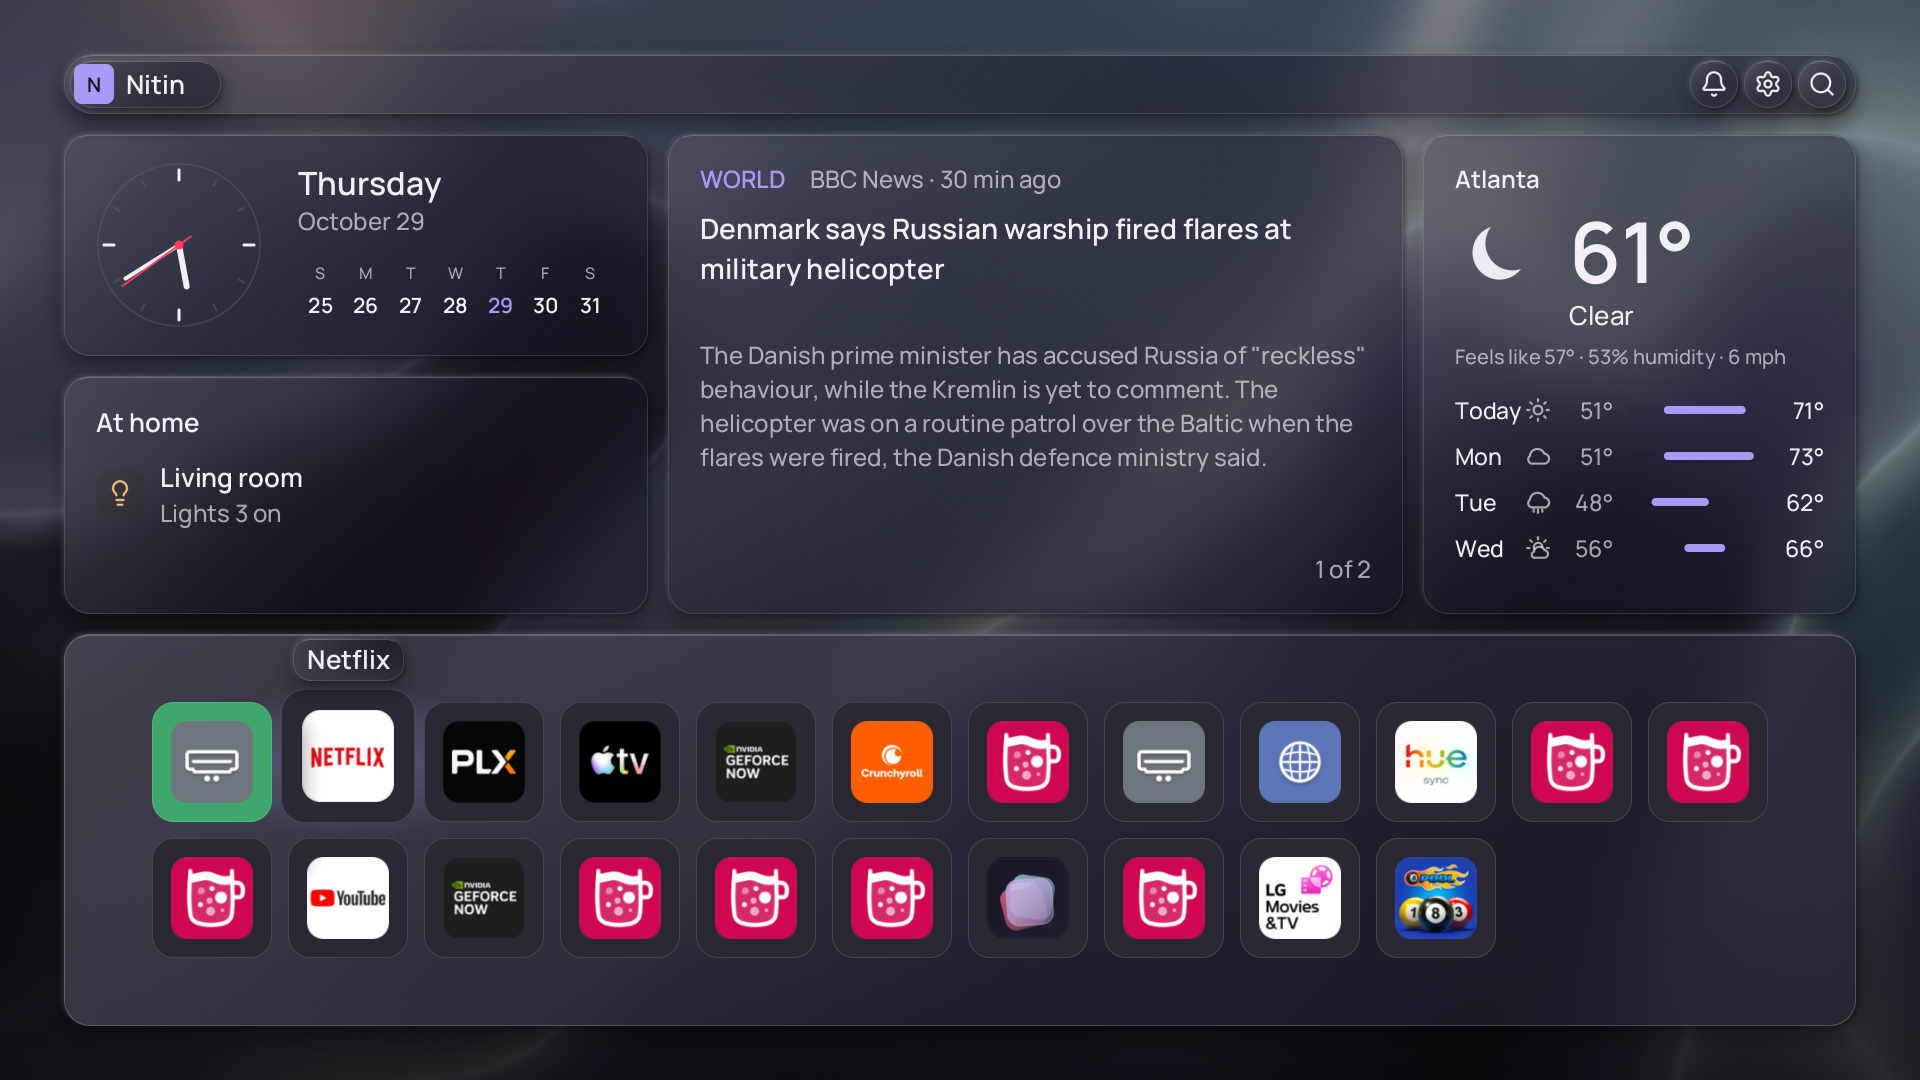
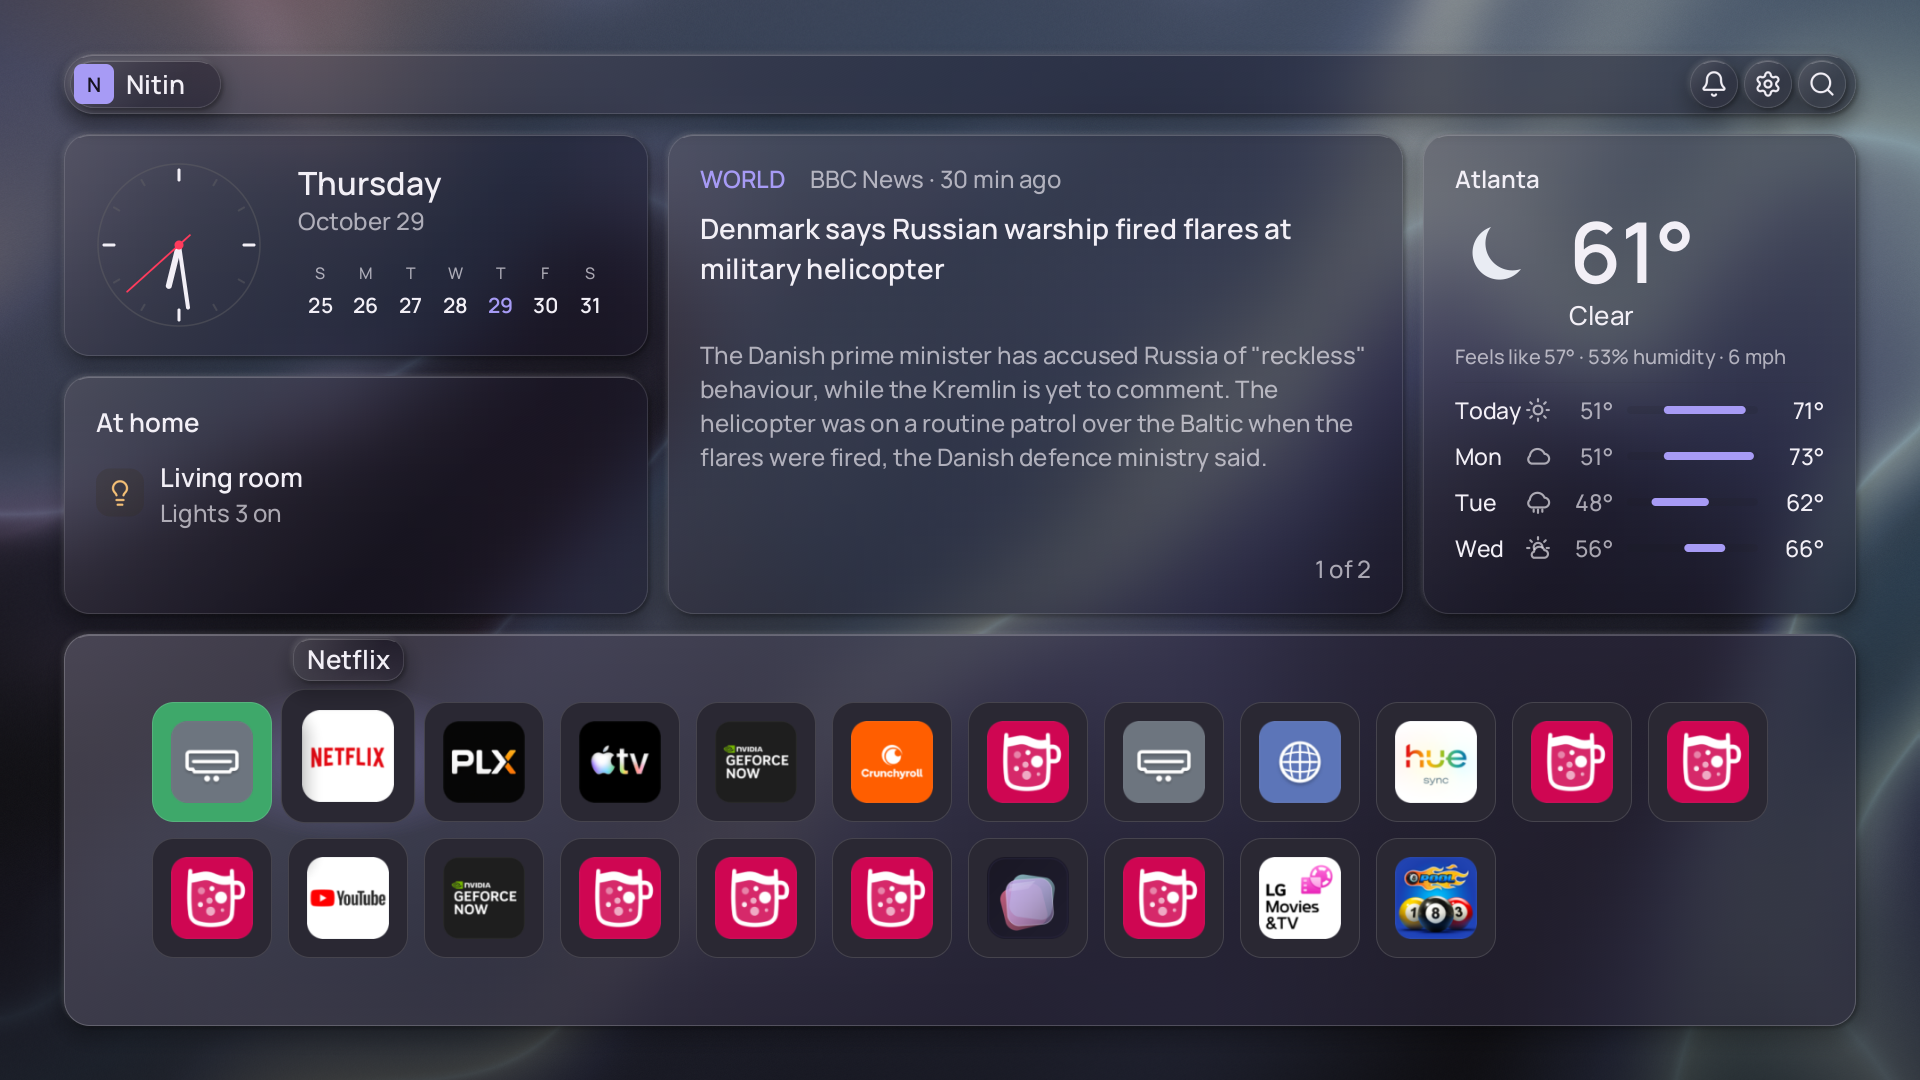
Rust Home: Home's scrim is only what the Silk wallpaper's own is short of (the page was scrimmed twice), the dock tile's name comes after the focus rests

Changed region(s): [[0.8438, 0.6722, 1.0, 1.0], [0.125, 0.9472, 0.3125, 1.0], [0.0625, 0.2139, 0.0938, 0.275]]

diff --git a/rustui/ui/src/home/surface.rs b/rustui/ui/src/home/surface.rs
@@ -761,7 +761,14 @@ impl HomeSurface {
                 }
                 let title = home.dock.points.get(i).map(|p| p.title.clone()).unwrap_or_default();
                 let id = Id(model::DOCK_ID + i as u32);
-                if d.pill_for != Some(id) {
+                // The name comes only once the focus has rested (`Tile.qml`: the name pill comes after `rested`, so a glide across the dock makes none): a
+                // pill made for every tile the focus crosses is a pane and a line of text made and dropped at each step.
+                if !home.focus_view().rested {
+                    if d.pill_for.take().is_some() {
+                        d.pill.set(HIDDEN);
+                        d.pill_text.set_props(HIDDEN);
+                    }
+                } else if d.pill_for != Some(id) {
                     d.pill_for = Some(id);
                     let ink = kit.ui.look.ink();
                     let style = role_style(kit, TypeRole::Label, Some(Weight::SemiBold), ink, Align::Centre);
@@ -1263,7 +1270,15 @@ mod tests {
                 }
                 let mut s = HomeSurface::new(1000);
                 s.dirs(&testkit::module_dir(), std::path::Path::new("/nonexistent"));
-                s.apply(&mut kit, &mut engine, &mut home, 2500).expect("Home drawn");
+                // a glide: no name yet; once the focus has rested for restMs (150), the name
+                s.apply(&mut kit, &mut engine, &mut home, 2400).expect("Home drawn");
+                assert_eq!(pill_side(&s, &home), None, "{scale}: no name while the focus is still moving");
+                assert!(s.dock.as_ref().unwrap().pill_for.is_none());
+                let due = home.due_at().expect("a tick is due when the focus rests");
+                assert!(due <= 2300 + 150 + 5, "{due}");
+                let out = home.update(&Input::Tick, due);
+                assert!(out.contains(&crate::kit::screen::Effect::Redraw), "the rest is drawn");
+                s.apply(&mut kit, &mut engine, &mut home, due).expect("Home drawn");
                 assert_eq!(home.dock.row_of(home.dock.index), 0, "{scale}: the dock's top row has the focus");
                 assert_eq!(pill_side(&s, &home), Some(true), "{scale}, {count} apps: the top row's name is above its tile");
                 // the name stays on the dock's card
@@ -1273,6 +1288,9 @@ mod tests {
                 if second_row {
                     assert_eq!(home.dock.total_rows(), 2);
                     press(&mut home, "down", 3000);
+                    s.apply(&mut kit, &mut engine, &mut home, 3040).expect("Home drawn");
+                    assert!(s.dock.as_ref().unwrap().pill_for.is_none(), "{scale}: the name goes the moment the focus moves on");
+                    home.update(&Input::Tick, 3300);
                     s.apply(&mut kit, &mut engine, &mut home, 3300).expect("Home drawn");
                     assert_eq!(home.dock.row_of(home.dock.index), 1, "{scale}");
                     assert_eq!(pill_side(&s, &home), Some(false), "{scale}: the second row's name is below its tile");

diff --git a/rustui/ui/src/home/wallpaper.rs b/rustui/ui/src/home/wallpaper.rs
@@ -142,6 +142,9 @@ pub fn scrim_of(theme: &Value, mode: ui::lucent::palette::Mode) -> [f32; 3] {
     [at(0), at(1), at(2)]
 }
 
+/// The scrim the Silk wallpaper's shader applies by itself, at the top, the middle and the bottom (`SILK_SCRIM` in `rustui/render/src/wallpapers.rs`).
+pub const SILK_SCRIM: [f32; 3] = [0.10, 0.18, 0.46];
+
 pub struct WallpaperSurface {
     layer: Option<WallpaperLayer>,
     scrim_top: Option<ShapeLayer>,
@@ -214,7 +217,12 @@ impl WallpaperSurface {
             return;
         }
         self.generation = kit.generation();
-        let a = scrim_of(theme, kit.mode);
+        // The Silk wallpaper has the dark three-stop scrim in its own shader (`SILK_SCRIM`), as the QML Home's live wallpaper has its mode's: what
+        // Home puts over it is only what is still owed to reach the mode's scrim. Home used to lay the whole mode scrim over it, so the page was
+        // scrimmed twice (the bottom at .46 twice: 0.29 of the picture, the QML Home's 0.54). A scrim lighter than Silk's (the light material) cannot
+        // be taken off again, so it is nothing.
+        let target = scrim_of(theme, kit.mode);
+        let a: [f32; 3] = std::array::from_fn(|i| (1.0 - (1.0 - target[i]) / (1.0 - SILK_SCRIM[i])).max(0.0));
         let black = |alpha: f32| Rgba(0, 0, 0, (alpha.clamp(0.0, 1.0) * 255.0).round() as u8);
         let top_h = (H as f32 * 0.55).round() as u32;
         let props = Props { opacity: if self.hole { 0.0 } else { 1.0 }, visible: !self.hole, ..Props::at(0.0, 0.0) };

diff --git a/rustui/ui/src/home/model.rs b/rustui/ui/src/home/model.rs
@@ -171,6 +171,8 @@ pub struct Home {
     ok_down_at: Option<u64>,
     ok_held: bool,
     moved_at: u64,
+    /// The redraw that shows what waits for the focus to rest (the dock tile's name) has been asked for since the last move.
+    rest_drawn: bool,
     rest_ms: u64,
     hold_ms: u64,
     next_poll: u64,
@@ -248,6 +250,7 @@ impl Home {
             ok_down_at: None,
             ok_held: false,
             moved_at: 0,
+            rest_drawn: true,
             rest_ms,
             hold_ms,
             next_poll: 0,
@@ -591,6 +594,11 @@ impl Home {
         {
             self.click_press = None;
             self.hold(out);
+            self.redraw(out);
+        }
+        // the focus has rested: what waited for it (the dock tile's name) is drawn now
+        if !self.rest_drawn && now >= self.moved_at + self.rest_ms {
+            self.rest_drawn = true;
             self.redraw(out);
         }
         // an answer that never came (the host restarted) does not stop the next look
@@ -942,6 +950,7 @@ impl Home {
 
     fn action(&mut self, name: &str, out: &mut Vec<Effect>) {
         self.moved_at = self.now;
+        self.rest_drawn = false;
         let dir = Self::dir_of(name);
         match self.layer {
             Layer::Apps => self.apps_key(name, dir, out),
